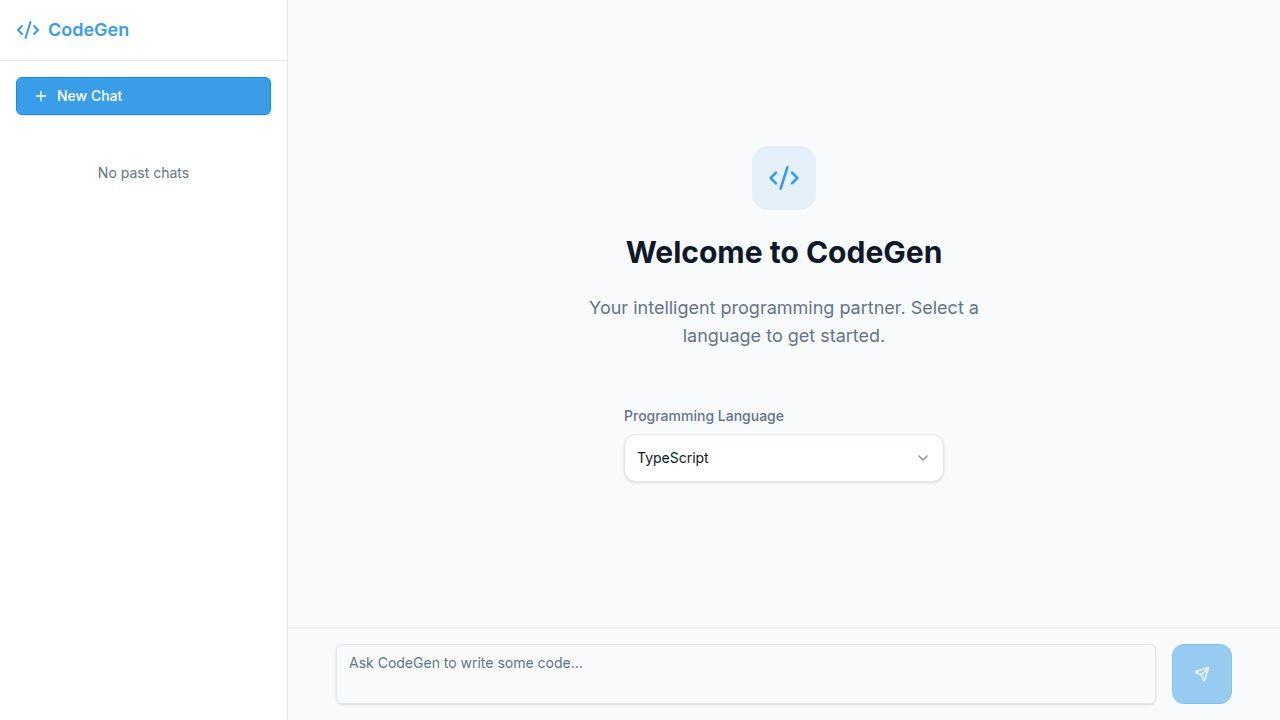
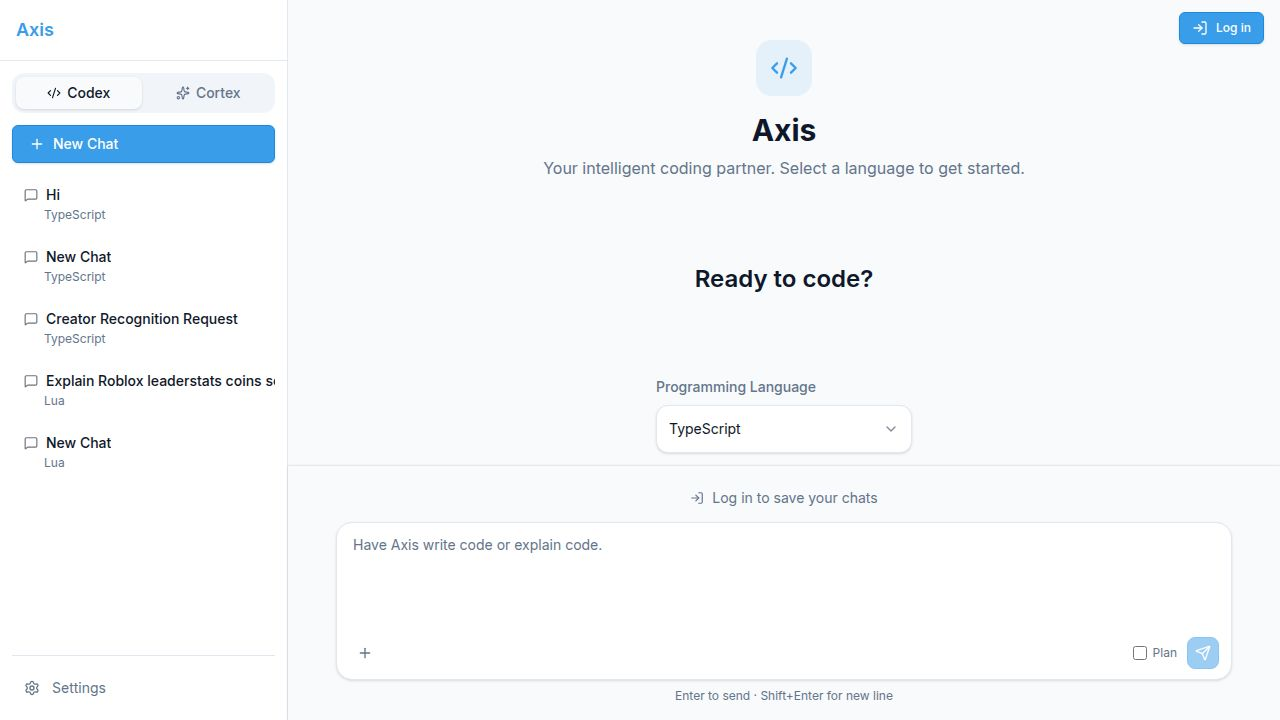
Make conversation options visible and accessible on the sidebar
Fixes an issue where the conversation options menu was not visible due to clipping by the ScrollArea component. Replaces ScrollArea with a standard div for proper display of absolutely positioned elements.

Replit-Commit-Author: Agent
Replit-Commit-Session-Id: cb72b31c-7965-43df-9025-91d56983af6e
Replit-Commit-Checkpoint-Type: full_checkpoint
Replit-Commit-Event-Id: 03206675-3a40-4369-8703-a8ad029a3d90
Replit-Commit-Screenshot-Url: https://storage.googleapis.com/screenshot-production-us-central1/f0140cef-96b6-4c72-a371-5f62d808aaaa/cb72b31c-7965-43df-9025-91d56983af6e/fXvQHFi
Replit-Helium-Checkpoint-Created: true

diff --git a/artifacts/codegen/src/components/Sidebar.tsx b/artifacts/codegen/src/components/Sidebar.tsx
@@ -1,4 +1,4 @@
-import { useState } from "react";
+import { useState, useRef, useEffect } from "react";
 import {
   useListOpenaiConversations,
   useDeleteOpenaiConversation,
@@ -12,12 +12,6 @@ import {
   getGetCortexConversationQueryKey,
 } from "@workspace/api-client-react";
 import { Button } from "@/components/ui/button";
-import {
-  DropdownMenu,
-  DropdownMenuContent,
-  DropdownMenuItem,
-  DropdownMenuTrigger,
-} from "@/components/ui/dropdown-menu";
 import {
   AlertDialog,
   AlertDialogAction,
@@ -38,7 +32,6 @@ import {
 import { Input } from "@/components/ui/input";
 import { Plus, MessageSquare, Code2, Settings, Sparkles, MoreVertical, Pencil, Trash2 } from "lucide-react";
 import { useQueryClient } from "@tanstack/react-query";
-import { ScrollArea } from "@/components/ui/scroll-area";
 
 type Tab = "codex" | "cortex";
 
@@ -71,49 +64,127 @@ function ConversationItem({
   onRename: () => void;
   onDelete: () => void;
 }) {
+  const [menuOpen, setMenuOpen] = useState(false);
+  const menuRef = useRef<HTMLDivElement>(null);
+
+  useEffect(() => {
+    if (!menuOpen) return;
+    function handleClick(e: MouseEvent) {
+      if (menuRef.current && !menuRef.current.contains(e.target as Node)) {
+        setMenuOpen(false);
+      }
+    }
+    document.addEventListener("mousedown", handleClick);
+    return () => document.removeEventListener("mousedown", handleClick);
+  }, [menuOpen]);
+
   return (
     <div
       onClick={onSelect}
-      className={`group flex items-center justify-between px-3 py-3 rounded-lg cursor-pointer transition-colors ${
+      style={{ position: "relative" }}
+      className={`px-3 py-2.5 rounded-lg cursor-pointer transition-colors ${
         isActive ? "bg-primary/10 text-primary" : "hover:bg-muted text-foreground"
       }`}
     >
-      <div className="flex flex-col overflow-hidden gap-1 flex-1 min-w-0">
+      {/* Text content — padded right so the absolute button doesn't overlap */}
+      <div style={{ paddingRight: 28 }}>
         <div className="flex items-center gap-2">
-          <MessageSquare className="w-4 h-4 shrink-0 opacity-70" />
-          <span className="text-sm font-medium truncate">{conv.title || "New Chat"}</span>
+          <MessageSquare className="w-3.5 h-3.5 shrink-0 opacity-60" />
+          <span className="text-sm font-medium truncate block">{conv.title || "New Chat"}</span>
         </div>
         {conv.subtitle && (
-          <span className="text-xs text-muted-foreground ml-6 truncate">{conv.subtitle}</span>
+          <span className="text-xs text-muted-foreground ml-5 block truncate">{conv.subtitle}</span>
         )}
       </div>
 
-      <DropdownMenu>
-        <DropdownMenuTrigger asChild>
-          <button
+      {/* Three-dot button — absolutely anchored to the right edge */}
+      <div
+        ref={menuRef}
+        style={{ position: "absolute", right: 6, top: "50%", transform: "translateY(-50%)" }}
+      >
+        <button
+          onClick={(e) => { e.stopPropagation(); setMenuOpen((v) => !v); }}
+          style={{
+            display: "flex",
+            alignItems: "center",
+            justifyContent: "center",
+            width: 22,
+            height: 22,
+            borderRadius: 4,
+            border: "none",
+            background: menuOpen ? "rgba(0,0,0,0.08)" : "transparent",
+            cursor: "pointer",
+            padding: 0,
+            transition: "background 0.15s",
+          }}
+          onMouseEnter={(e) => { if (!menuOpen) (e.currentTarget as HTMLButtonElement).style.background = "rgba(0,0,0,0.06)"; }}
+          onMouseLeave={(e) => { if (!menuOpen) (e.currentTarget as HTMLButtonElement).style.background = "transparent"; }}
+          title="More options"
+        >
+          <MoreVertical style={{ width: 14, height: 14, color: "#6b7280" }} />
+        </button>
+
+        {menuOpen && (
+          <div
+            style={{
+              position: "absolute",
+              right: 0,
+              top: 28,
+              zIndex: 9999,
+              width: 144,
+              borderRadius: 8,
+              border: "1px solid #e5e7eb",
+              background: "#ffffff",
+              boxShadow: "0 4px 12px rgba(0,0,0,0.12)",
+              padding: "4px 0",
+            }}
             onClick={(e) => e.stopPropagation()}
-            className="h-7 w-7 flex items-center justify-center rounded-md hover:bg-muted-foreground/15 transition-colors shrink-0 ml-1"
           >
-            <MoreVertical className="w-4 h-4 text-muted-foreground" />
-          </button>
-        </DropdownMenuTrigger>
-        <DropdownMenuContent align="end" className="w-36" onClick={(e) => e.stopPropagation()}>
-          <DropdownMenuItem
-            onClick={(e) => { e.stopPropagation(); onRename(); }}
-            className="gap-2 cursor-pointer"
-          >
-            <Pencil className="w-3.5 h-3.5" />
-            Rename
-          </DropdownMenuItem>
-          <DropdownMenuItem
-            onClick={(e) => { e.stopPropagation(); onDelete(); }}
-            className="gap-2 cursor-pointer text-destructive focus:text-destructive"
-          >
-            <Trash2 className="w-3.5 h-3.5" />
-            Delete
-          </DropdownMenuItem>
-        </DropdownMenuContent>
-      </DropdownMenu>
+            <button
+              onClick={() => { setMenuOpen(false); onRename(); }}
+              style={{
+                width: "100%",
+                display: "flex",
+                alignItems: "center",
+                gap: 8,
+                padding: "8px 12px",
+                fontSize: 14,
+                background: "transparent",
+                border: "none",
+                cursor: "pointer",
+                textAlign: "left",
+                color: "#111827",
+              }}
+              onMouseEnter={(e) => { (e.currentTarget as HTMLButtonElement).style.background = "#f3f4f6"; }}
+              onMouseLeave={(e) => { (e.currentTarget as HTMLButtonElement).style.background = "transparent"; }}
+            >
+              <Pencil style={{ width: 13, height: 13 }} />
+              Rename
+            </button>
+            <button
+              onClick={() => { setMenuOpen(false); onDelete(); }}
+              style={{
+                width: "100%",
+                display: "flex",
+                alignItems: "center",
+                gap: 8,
+                padding: "8px 12px",
+                fontSize: 14,
+                background: "transparent",
+                border: "none",
+                cursor: "pointer",
+                textAlign: "left",
+                color: "#ef4444",
+              }}
+              onMouseEnter={(e) => { (e.currentTarget as HTMLButtonElement).style.background = "#fef2f2"; }}
+              onMouseLeave={(e) => { (e.currentTarget as HTMLButtonElement).style.background = "transparent"; }}
+            >
+              <Trash2 style={{ width: 13, height: 13 }} />
+              Delete
+            </button>
+          </div>
+        )}
+      </div>
     </div>
   );
 }
@@ -244,7 +315,7 @@ export default function Sidebar({
         </div>
 
         {activeTab === "codex" ? (
-          <ScrollArea className="flex-1 px-3">
+          <div className="flex-1 overflow-y-auto px-3 min-h-0">
             <div className="space-y-1 pb-4">
               {axisLoading ? (
                 <div className="px-2 py-4 text-sm text-muted-foreground text-center">Loading...</div>
@@ -263,9 +334,9 @@ export default function Sidebar({
                 ))
               )}
             </div>
-          </ScrollArea>
+          </div>
         ) : (
-          <ScrollArea className="flex-1 px-3">
+          <div className="flex-1 overflow-y-auto px-3 min-h-0">
             <div className="space-y-1 pb-4">
               {cortexLoading ? (
                 <div className="px-2 py-4 text-sm text-muted-foreground text-center">Loading...</div>
@@ -284,7 +355,7 @@ export default function Sidebar({
                 ))
               )}
             </div>
-          </ScrollArea>
+          </div>
         )}
 
         <div className="shrink-0">

diff --git a/artifacts/api-server/src/routes/openai/index.ts b/artifacts/api-server/src/routes/openai/index.ts
@@ -1,7 +1,7 @@
 import { Router, type IRouter } from "express";
 import { db, conversations, messages, userMemories } from "@workspace/db";
 import { ai } from "@workspace/integrations-gemini-ai";
-import { eq, desc } from "drizzle-orm";
+import { eq, desc, isNull } from "drizzle-orm";
 
 const router: IRouter = Router();
 
@@ -56,15 +56,11 @@ async function extractAndSaveMemories(userId: number, userMessage: string): Prom
 // ── Routes ───────────────────────────────────────────────────────────────────
 
 router.get("/conversations", async (req, res) => {
-  const userId = req.session?.userId;
-  if (!userId) {
-    res.json([]);
-    return;
-  }
+  const userId = req.session?.userId ?? null;
   const result = await db
     .select()
     .from(conversations)
-    .where(eq(conversations.userId, userId))
+    .where(userId ? eq(conversations.userId, userId) : isNull(conversations.userId))
     .orderBy(desc(conversations.createdAt));
   res.json(
     result.filter((c) => c.source === "axis").map((c) => ({

diff --git a/artifacts/api-server/src/routes/cortex/conversations.ts b/artifacts/api-server/src/routes/cortex/conversations.ts
@@ -1,7 +1,7 @@
 import { Router, type IRouter } from "express";
 import { db, conversations, messages, userMemories } from "@workspace/db";
 import { ai } from "@workspace/integrations-gemini-ai";
-import { eq, desc } from "drizzle-orm";
+import { eq, desc, isNull } from "drizzle-orm";
 
 const router: IRouter = Router();
 
@@ -55,12 +55,11 @@ async function extractAndSaveMemories(userId: number, userMessage: string): Prom
 // ── Routes ───────────────────────────────────────────────────────────────────
 
 router.get("/", async (req, res) => {
-  const userId = req.session?.userId;
-  if (!userId) { res.json([]); return; }
+  const userId = req.session?.userId ?? null;
   const result = await db
     .select()
     .from(conversations)
-    .where(eq(conversations.userId, userId))
+    .where(userId ? eq(conversations.userId, userId) : isNull(conversations.userId))
     .orderBy(desc(conversations.createdAt));
   res.json(
     result.filter((c) => c.source === "cortex").map((c) => ({
